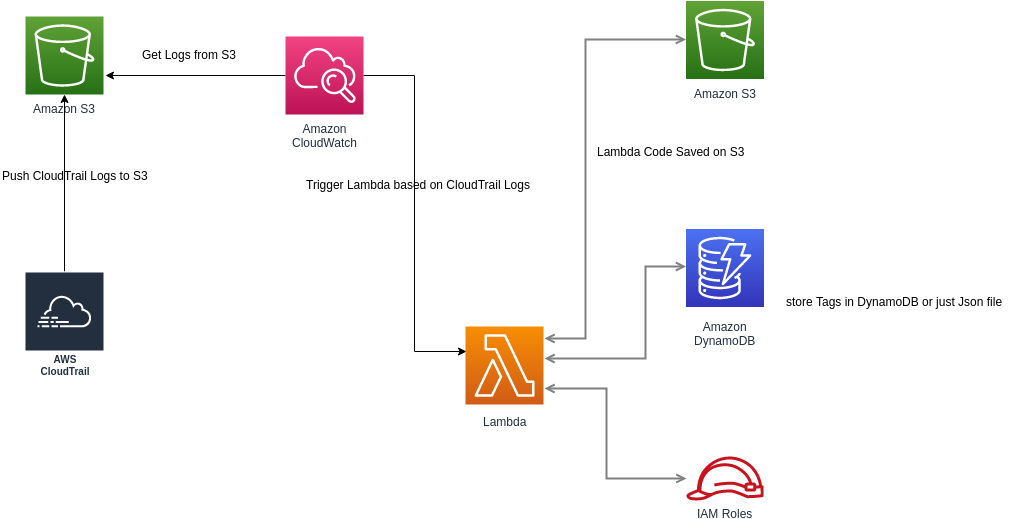
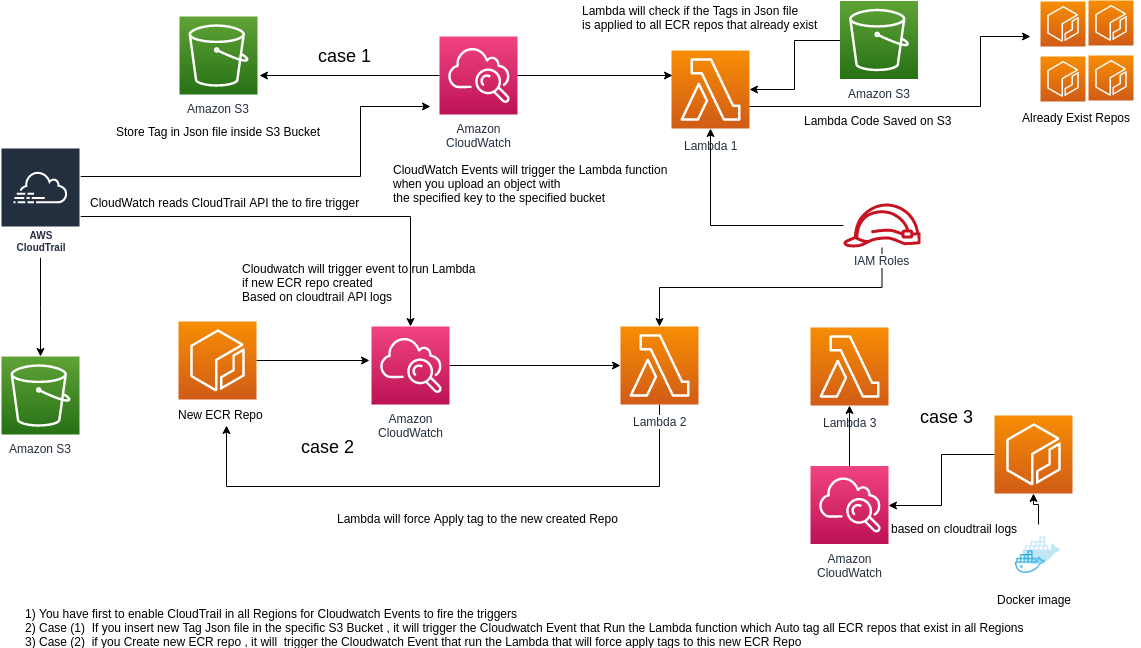
add case 3 lambda

diff --git a/README.md b/README.md
@@ -4,9 +4,11 @@
 1. Enable CloudTrail in the current Region or all Regions you work with ,as it will trigger the Cloudwatch
 2. Case (1) --> If you insert new Tag Json file in the specific S3 Bucket , it will trigger the Cloudwatch Event that Run the Lambda function which Auto tag all ECR repos that exist in all Regions
 3. case (2) --> if you Create new ECR repo , it will trigger the Cloudwatch Event that run the Lambda that will force apply tags to this new ECR Repo
-3. Main CloudFormation Stack 
+4. case (3) --> if an image is pushed to any repo , it will trigger the Cloudwatch Event that run the Lambda that will query the docker image labels and verify if they match the expected AWS tags
+5. Main CloudFormation Stack 
     - Lambda Function 1 --> for new created ECR repo 
     - Lambda Function 2 --> when put new Tag Json file , to apply to already existing ECR repos
+    - Lambda Function 3 --> when docker image pushed , compare the image labels with the repo AWS tag
     - IAM Role to give Lambda access permissions on other resources like 'ECR'
 
 ## Diagram
@@ -17,6 +19,26 @@
 ## Prerequisites
 
 - CloudTrail must be Enabled in the specific region
+
+
+
+
+
+
+## How to put/get image labels
+
+Dockerfile:
+-----------
+FROM amazonlinux:latest
+LABEL version="1.0" maintainer="Eslam Mohammed <eslam.anwar96@gmail.com>"
+
+
+url=$(aws ecr get-download-url-for-layer --registry-id 011974135172 --repository-name amazonlinux --layer-digest sha256:95481a8e9b7fcae0f5bea89d5b35ec1029303910033fa1a20f083970ec97ee28 | jq -r .downloadUrl)
+
+curl -s --connect-timeout 5 $url | jq .config.Labels
+
+
+
 
 
 ## Architecture design questions
